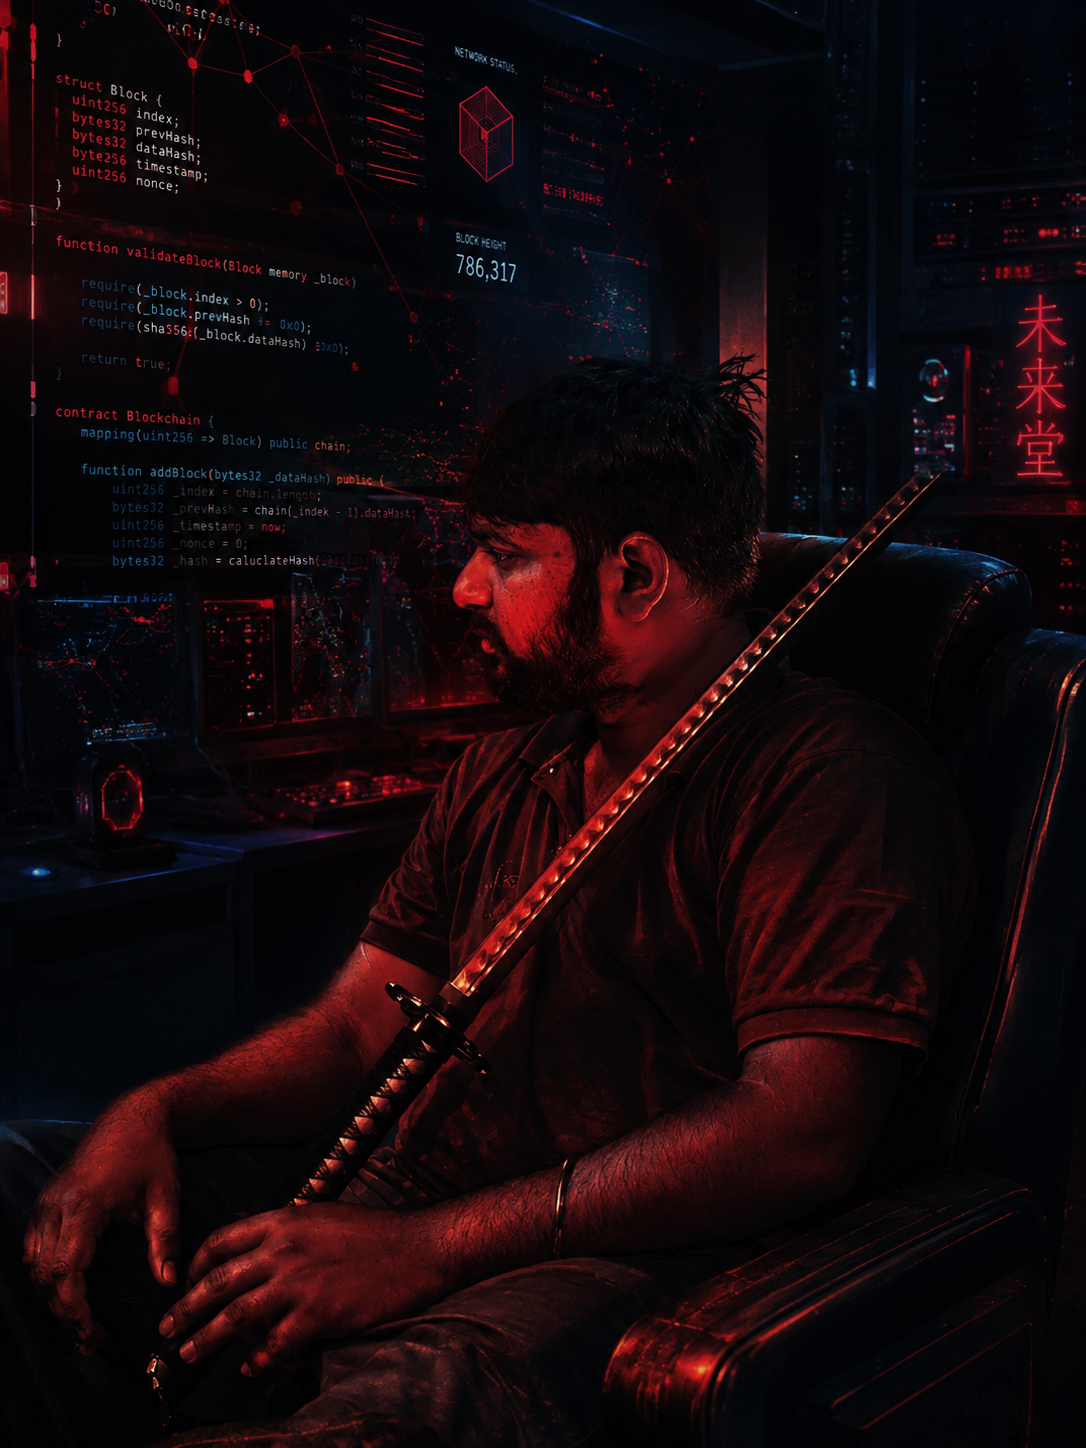
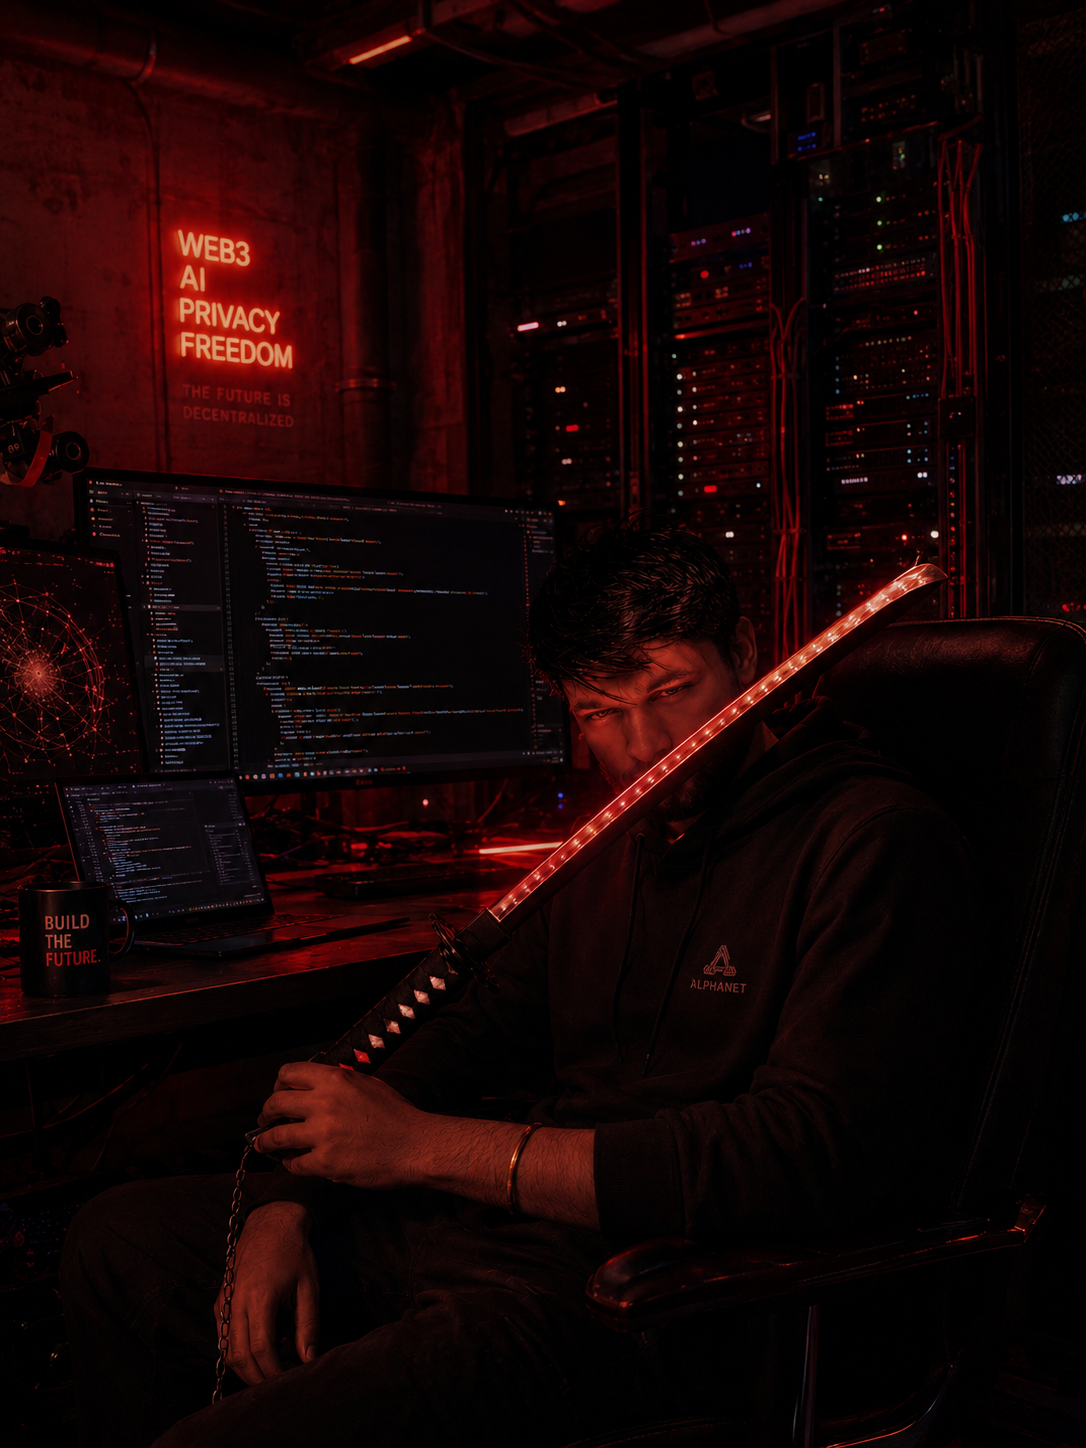
final version

diff --git a/src/app/globals.css b/src/app/globals.css
@@ -9,10 +9,10 @@
     text-wrap: balance;
   }
   .glass-card {
-    @apply bg-white/5 border border-white/10 backdrop-blur-md shadow-[0_4px_30px_rgba(0,0,0,0.1)];
+    @apply bg-black/40 border border-white/5 backdrop-blur-xl shadow-[0_8px_32px_rgba(0,0,0,0.3)];
   }
   .glow-text-primary {
-    text-shadow: 0 0 20px oklch(0.6 0.2 320 / 50%); /* Cyberpunk pink/purple glow */
+    text-shadow: 0 0 20px oklch(0.7 0.2 200 / 60%); /* Cyan neon glow */
   }
 }
 
@@ -33,8 +33,8 @@
     --popover: oklch(0.15 0.03 285);
     --popover-foreground: oklch(0.98 0 0);
     
-    --primary: oklch(0.65 0.25 320); /* Neon Magenta/Purple */
-    --primary-foreground: oklch(0.98 0 0);
+    --primary: oklch(0.7 0.2 200); /* Neon Cyan */
+    --primary-foreground: oklch(0.1 0.02 260);
     
     --secondary: oklch(0.25 0.05 285);
     --secondary-foreground: oklch(0.98 0 0);
@@ -53,31 +53,31 @@
   }
 
   .dark {
-    --background: oklch(0.10 0.02 285); /* Ultra dark background */
+    --background: oklch(0.12 0.02 260); /* Deeper tech blue-black */
     --foreground: oklch(0.98 0 0);
     
-    --card: oklch(0.14 0.03 285);
+    --card: oklch(0.15 0.03 260);
     --card-foreground: oklch(0.98 0 0);
     
-    --popover: oklch(0.14 0.03 285);
+    --popover: oklch(0.15 0.03 260);
     --popover-foreground: oklch(0.98 0 0);
     
-    --primary: oklch(0.65 0.25 320); /* Cyberpunk pink */
-    --primary-foreground: oklch(0.98 0 0);
+    --primary: oklch(0.7 0.2 200); /* Cyan/Neon Blue for techie look */
+    --primary-foreground: oklch(0.1 0.02 260);
     
-    --secondary: oklch(0.2 0.05 285);
+    --secondary: oklch(0.2 0.05 260);
     --secondary-foreground: oklch(0.98 0 0);
     
-    --muted: oklch(0.18 0.03 285);
-    --muted-foreground: oklch(0.65 0.01 285);
+    --muted: oklch(0.18 0.03 260);
+    --muted-foreground: oklch(0.7 0.02 260);
     
-    --accent: oklch(0.2 0.05 285);
+    --accent: oklch(0.65 0.25 320); /* Neon Pink/Magenta accent */
     --accent-foreground: oklch(0.98 0 0);
     
     --destructive: oklch(0.6 0.2 20);
-    --border: oklch(0.22 0.03 285);
-    --input: oklch(0.22 0.03 285);
-    --ring: oklch(0.65 0.25 320);
+    --border: oklch(0.22 0.03 260);
+    --input: oklch(0.22 0.03 260);
+    --ring: oklch(0.7 0.2 200);
   }
 
   * {
@@ -86,14 +86,37 @@
   
   body {
     @apply bg-background text-foreground;
-    /* Premium subtle radial gradient for the background */
-    background: radial-gradient(circle at top right, oklch(0.2 0.05 320 / 30%) 0%, transparent 40%),
-                radial-gradient(circle at bottom left, oklch(0.15 0.05 285 / 50%) 0%, transparent 40%);
-    background-color: oklch(0.10 0.02 285);
+    /* High-tech grid pattern and radial glow */
+    background-color: oklch(0.10 0.02 260);
+    background-image: 
+      radial-gradient(circle at top right, oklch(0.7 0.2 200 / 15%) 0%, transparent 40%),
+      radial-gradient(circle at bottom left, oklch(0.65 0.25 320 / 15%) 0%, transparent 40%),
+      linear-gradient(rgba(255, 255, 255, 0.02) 1px, transparent 1px),
+      linear-gradient(90deg, rgba(255, 255, 255, 0.02) 1px, transparent 1px);
+    background-size: 100% 100%, 100% 100%, 40px 40px, 40px 40px;
     background-attachment: fixed;
+    background-position: center center;
   }
   
   html {
     @apply font-sans;
+  }
+}
+
+@layer utilities {
+  .tech-border {
+    position: relative;
+  }
+  .tech-border::before {
+    content: '';
+    position: absolute;
+    top: 0; left: 0; right: 0; bottom: 0;
+    border-radius: inherit;
+    padding: 1px;
+    background: linear-gradient(135deg, oklch(0.7 0.2 200 / 50%), oklch(0.65 0.25 320 / 50%));
+    -webkit-mask: linear-gradient(#fff 0 0) content-box, linear-gradient(#fff 0 0);
+    -webkit-mask-composite: xor;
+    mask-composite: exclude;
+    pointer-events: none;
   }
 }

diff --git a/src/components/HeroSection.tsx b/src/components/HeroSection.tsx
@@ -7,7 +7,7 @@ import { Button } from "@/components/ui/button";
 
 export function HeroSection() {
   return (
-    <section className="relative min-h-screen flex items-center pt-20 overflow-hidden">
+    <section className="relative min-h-[90vh] flex items-center pt-20 overflow-hidden">
       <div className="container mx-auto px-6 md:px-12 grid grid-cols-1 lg:grid-cols-2 gap-12 items-center">
         
         {/* Left Content */}
@@ -31,34 +31,41 @@ export function HeroSection() {
           </h1>
           
           <p className="text-lg md:text-xl text-muted-foreground max-w-lg leading-relaxed">
-            I'm Arpit Chauhan, a Fullstack Blockchain Developer and Founder. I engineer scalable L1 blockchains, AI-driven SaaS products, and highly-performant web applications.
+            I&apos;m Arpit Chauhan, a Fullstack Blockchain Developer and Founder. I engineer scalable L1 blockchains, AI-driven SaaS products, and highly-performant web applications.
           </p>
 
           <div className="flex items-center gap-4 pt-4">
             <Button size="lg" className="bg-primary text-primary-foreground hover:bg-primary/90 rounded-full px-8 h-12">
               View My Work
             </Button>
-            <Button size="lg" variant="outline" className="rounded-full px-8 h-12 group border-white/10 hover:bg-white/5">
-              Let's Talk
-              <ArrowRight className="w-4 h-4 ml-2 group-hover:translate-x-1 transition-transform" />
-            </Button>
+            <a href="https://calendly.com/arpitchauhan2468" target="_blank" rel="noopener noreferrer">
+              <Button size="lg" variant="outline" className="rounded-full px-8 h-12 group border-white/10 hover:bg-white/5">
+                Let&apos;s Talk
+                <ArrowRight className="w-4 h-4 ml-2 group-hover:translate-x-1 transition-transform" />
+              </Button>
+            </a>
           </div>
         </motion.div>
 
-        {/* Right Content - Image Placeholder */}
+        {/* Right Content - Static Image */}
         <motion.div 
           initial={{ opacity: 0, scale: 0.9 }}
           animate={{ opacity: 1, scale: 1 }}
           transition={{ duration: 1, delay: 0.2 }}
-          className="relative lg:ml-auto w-full max-w-md aspect-[4/5] rounded-2xl glass-card overflow-hidden group"
+          className="relative lg:ml-auto w-full max-w-md aspect-[4/5] rounded-2xl glass-card tech-border overflow-hidden group"
         >
-          <Image 
-            src="/hero-4.png" 
-            alt="Arpit Chauhan - Founder & Web3/AI Developer" 
-            fill
-            className="object-cover z-10 transition-transform duration-700 group-hover:scale-105"
-            priority
-          />
+          <div className="absolute inset-0 z-10">
+            <Image 
+              src="/hero-2.png" 
+              alt="Arpit Chauhan - Founder & Web3/AI Developer" 
+              fill
+              className="object-cover transition-transform duration-700 group-hover:scale-105"
+              priority
+            />
+          </div>
+          
+          {/* Decorative tech grid overlay */}
+          <div className="absolute inset-0 bg-[linear-gradient(rgba(255,255,255,0.03)_1px,transparent_1px),linear-gradient(90deg,rgba(255,255,255,0.03)_1px,transparent_1px)] bg-[size:20px_20px] pointer-events-none z-20 mix-blend-overlay" />
           
           {/* Decorative glowing orb behind the image */}
           <div className="absolute top-1/2 left-1/2 -translate-x-1/2 -translate-y-1/2 w-[150%] h-[150%] bg-primary/20 blur-[120px] rounded-full z-0 group-hover:bg-primary/30 transition-colors duration-700" />

diff --git a/src/components/CTASection.tsx b/src/components/CTASection.tsx
@@ -1,0 +1,52 @@
+"use client";
+
+import { motion } from "framer-motion";
+import Image from "next/image";
+import { Button } from "@/components/ui/button";
+import { ArrowRight } from "lucide-react";
+
+export function CTASection() {
+  return (
+    <section className="container mx-auto px-6 md:px-12 py-24">
+      <div className="glass-card tech-border rounded-3xl overflow-hidden relative p-8 md:p-12 flex flex-col md:flex-row items-center justify-between gap-12">
+        <motion.div 
+          initial={{ opacity: 0, x: -20 }}
+          whileInView={{ opacity: 1, x: 0 }}
+          viewport={{ once: true }}
+          className="flex-1 relative z-10"
+        >
+          <h2 className="text-3xl md:text-5xl font-bold mb-6 text-balance">
+            Ready to build the <span className="text-primary glow-text-primary">next big thing?</span>
+          </h2>
+          <p className="text-muted-foreground text-lg mb-8 max-w-md leading-relaxed">
+            Whether you need a scalable Web3 architecture, a cutting-edge AI integration, or a premium web application, let&apos;s connect and make it happen.
+          </p>
+          <a href="https://calendly.com/arpitchauhan2468" target="_blank" rel="noopener noreferrer">
+            <Button size="lg" className="bg-primary text-primary-foreground hover:bg-primary/90 rounded-full px-8 h-12 group mt-4">
+              Start a Conversation
+              <ArrowRight className="w-4 h-4 ml-2 group-hover:translate-x-1 transition-transform" />
+            </Button>
+          </a>
+        </motion.div>
+
+        <motion.div 
+          initial={{ opacity: 0, scale: 0.9 }}
+          whileInView={{ opacity: 1, scale: 1 }}
+          viewport={{ once: true }}
+          className="w-full md:w-[400px] aspect-square relative rounded-2xl overflow-hidden border border-white/10 group"
+        >
+          <Image 
+            src="/hero-3.png" 
+            alt="Let's build together" 
+            fill
+            className="object-cover transition-transform duration-700 group-hover:scale-105"
+          />
+          <div className="absolute inset-0 bg-primary/20 mix-blend-overlay group-hover:bg-transparent transition-colors duration-500" />
+        </motion.div>
+        
+        {/* Background glow */}
+        <div className="absolute top-1/2 left-1/2 -translate-x-1/2 -translate-y-1/2 w-full h-full bg-primary/5 blur-[120px] rounded-full z-0 pointer-events-none" />
+      </div>
+    </section>
+  );
+}

diff --git a/src/components/ProjectsSection.tsx b/src/components/ProjectsSection.tsx
@@ -1,7 +1,8 @@
 "use client";
 
 import { motion } from "framer-motion";
-import { ExternalLink, Github } from "lucide-react";
+import { ExternalLink } from "lucide-react";
+import { FaGithub } from "react-icons/fa";
 import { Card, CardContent } from "@/components/ui/card";
 import { Badge } from "@/components/ui/badge";
 
@@ -44,7 +45,7 @@ export function ProjectsSection() {
       >
         <div>
           <h2 className="text-3xl md:text-5xl font-bold mb-4">Notable Projects</h2>
-          <p className="text-muted-foreground text-lg max-w-2xl">A selection of products and platforms I've built and shipped to production.</p>
+          <p className="text-muted-foreground text-lg max-w-2xl">A selection of products and platforms I&apos;ve built and shipped to production.</p>
         </div>
       </motion.div>
 
@@ -65,7 +66,7 @@ export function ProjectsSection() {
                     <h3 className="text-2xl font-bold text-white group-hover:text-primary transition-colors">{project.title}</h3>
                     <div className="flex items-center gap-3">
                       <a href="#" className="text-muted-foreground hover:text-white transition-colors">
-                        <Github className="w-5 h-5" />
+                        <FaGithub className="w-5 h-5" />
                       </a>
                       {project.link && (
                         <a href="#" className="text-muted-foreground hover:text-white transition-colors">

diff --git a/src/components/Navbar.tsx b/src/components/Navbar.tsx
@@ -1,7 +1,8 @@
 "use client";
 
 import { motion } from "framer-motion";
-import { Code2, Github, Linkedin, Mail, Twitter } from "lucide-react";
+import { Code2 } from "lucide-react";
+import { FaGithub, FaLinkedin, FaTwitter } from "react-icons/fa";
 import Link from "next/link";
 import { useEffect, useState } from "react";
 
@@ -38,13 +39,13 @@ export function Navbar() {
 
         <div className="flex items-center gap-4">
           <Link href="https://github.com/arpit2222" target="_blank" className="text-muted-foreground hover:text-white transition-colors">
-            <Github className="w-5 h-5" />
+            <FaGithub className="w-5 h-5" />
           </Link>
           <Link href="https://www.linkedin.com/in/arpit099/" target="_blank" className="text-muted-foreground hover:text-[#0A66C2] transition-colors">
-            <Linkedin className="w-5 h-5" />
+            <FaLinkedin className="w-5 h-5" />
           </Link>
           <Link href="https://x.com/Arpit39338561" target="_blank" className="text-muted-foreground hover:text-white transition-colors">
-            <Twitter className="w-5 h-5" />
+            <FaTwitter className="w-5 h-5" />
           </Link>
         </div>
       </div>

diff --git a/src/app/page.tsx b/src/app/page.tsx
@@ -3,6 +3,7 @@ import { Navbar } from "@/components/Navbar";
 import { ExperienceSection } from "@/components/ExperienceSection";
 import { ProjectsSection } from "@/components/ProjectsSection";
 import { SkillsSection } from "@/components/SkillsSection";
+import { CTASection } from "@/components/CTASection";
 import { Footer } from "@/components/Footer";
 
 export default function Home() {
@@ -23,6 +24,10 @@ export default function Home() {
         
         <div className="border-t border-white/5 bg-background relative z-10">
           <SkillsSection />
+        </div>
+        
+        <div className="border-t border-white/5 bg-background relative z-10">
+          <CTASection />
         </div>
       </div>
       
